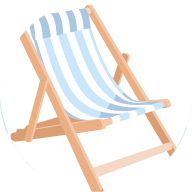
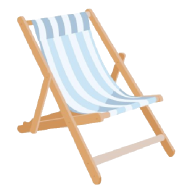
Profile: Cuppafocus and Hikewatch, tracklimit's circuit mark, Cabana's current chair
Two new rows, each with the product's own mark: Cuppafocus's app icon and
Hikewatch's tab icon. tracklimit's chip is redrawn from its favicon, the lap
of a circuit with a car on it, in place of the old three-stripe kerb. Cabana's
icon is the deckchair it serves today, without the disc.

Changed region(s): [[0.0312, 0.0, 0.9375, 1.0], [0.0, 0.5312, 0.0312, 0.6562], [0.9375, 0.6875, 0.9688, 0.75]]

diff --git a/profile/README.md b/profile/README.md
@@ -27,6 +27,14 @@ they are all listed.
     <td><a href="https://playparagon.app"><img src="assets/products/paragon.svg" width="64" height="64" alt="PARAGON"></a></td>
     <td><strong><a href="https://playparagon.app">PARAGON</a></strong><br>A game in which you raise an AI in a harbour town that remembers how it was treated. Coming soon to iPhone and Android, with a waitlist open now.</td>
   </tr>
+  <tr>
+    <td><a href="https://cuppafocus.com"><img src="assets/products/cuppafocus.png" width="64" height="64" alt="Cuppafocus"></a></td>
+    <td><strong><a href="https://cuppafocus.com">Cuppafocus</a></strong><br>A warm study timer in the browser that keeps a daily streak, with no account to make.</td>
+  </tr>
+  <tr>
+    <td><a href="https://hike.watch"><img src="assets/products/hikewatch.svg" width="64" height="64" alt="Hikewatch"></a></td>
+    <td><strong><a href="https://hike.watch">Hikewatch</a></strong><br>Renewal dates for the software a small team pays for, laid out on a year planner. In early access, with reminder emails still being built.</td>
+  </tr>
 </table>
 
 ## Get in touch
